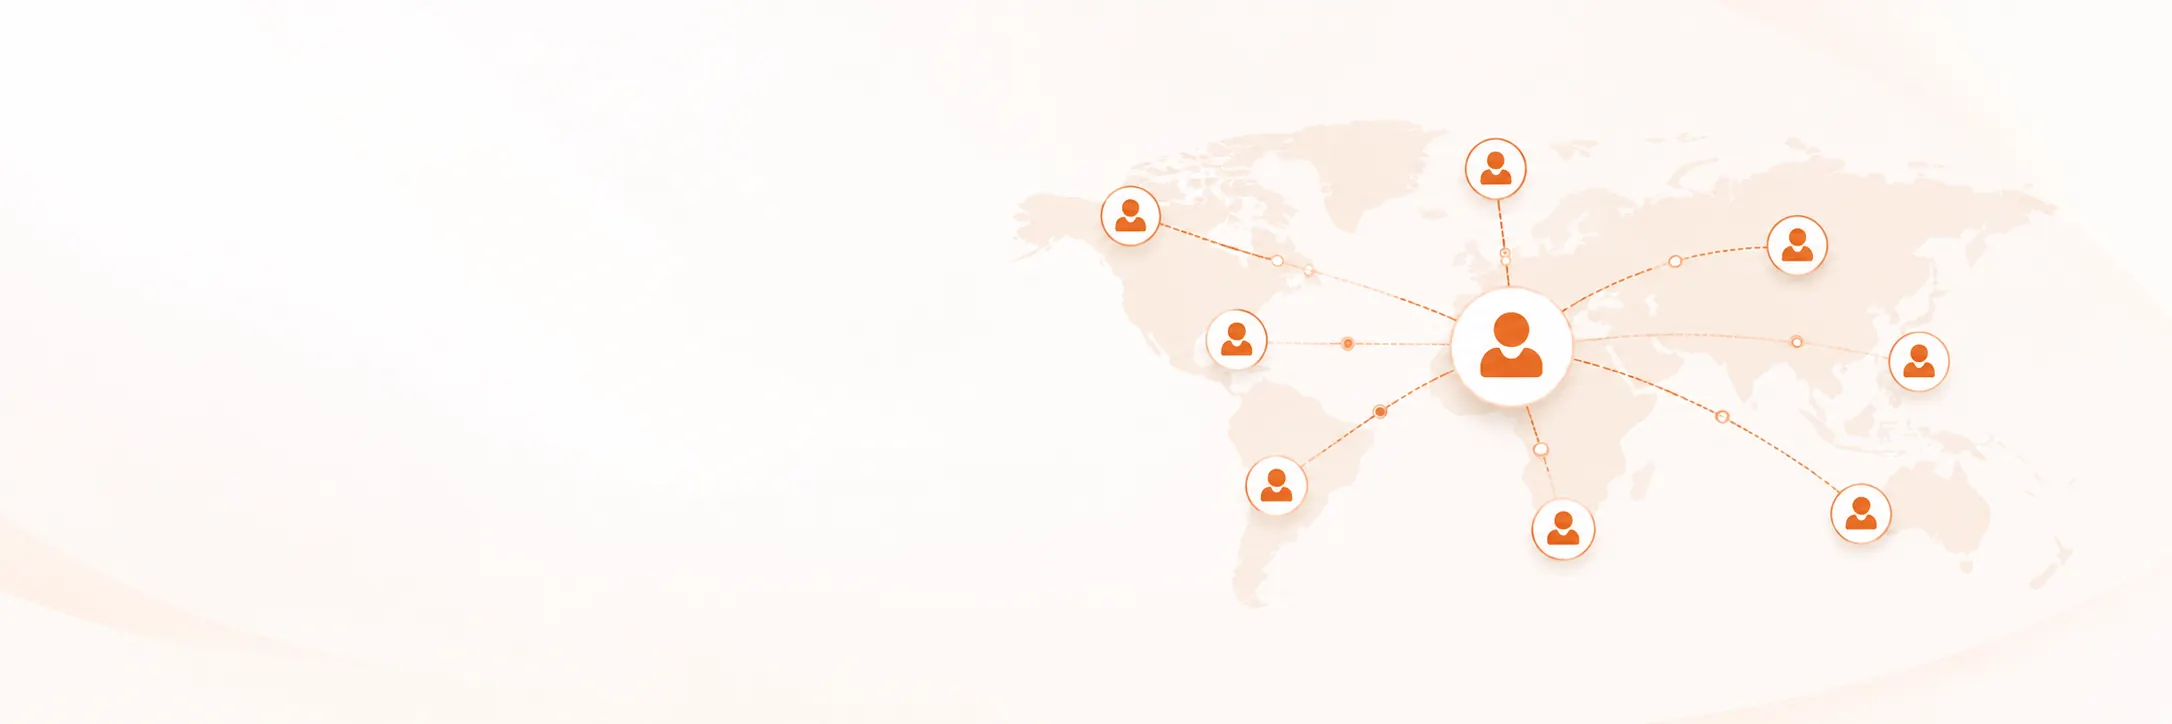
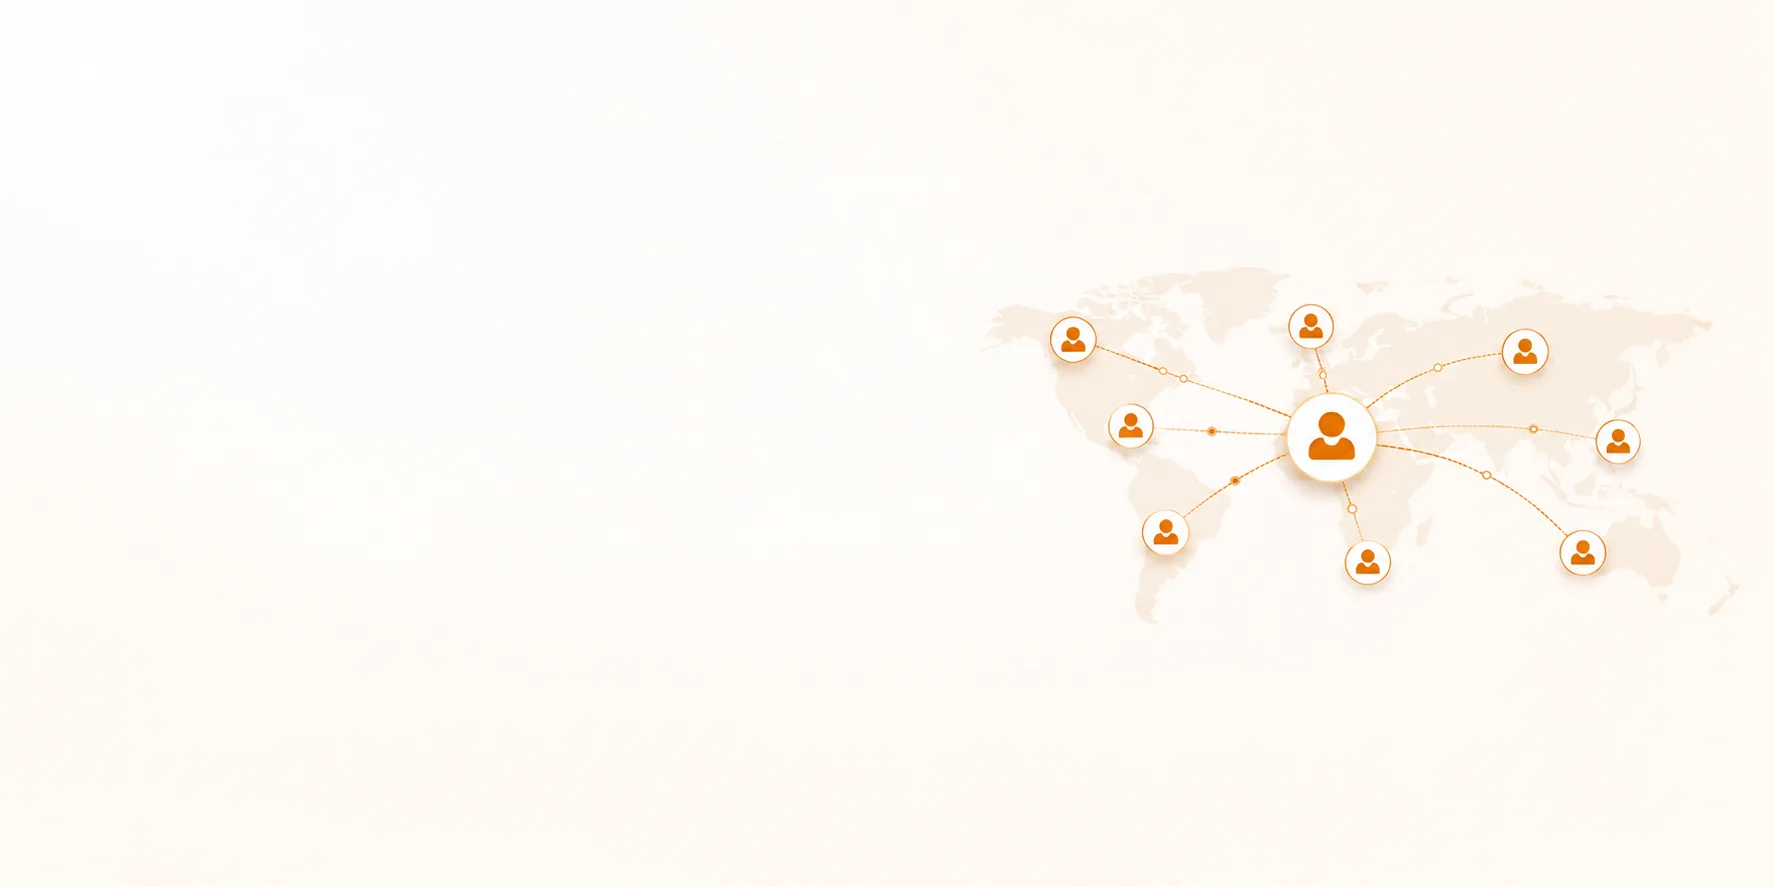
products page section 4 completed

diff --git a/src/pages/Products.jsx b/src/pages/Products.jsx
@@ -1,6 +1,7 @@
 import gproHero from "../assets/images/PRODUCTS_Hero.webp";
 import voicebillBg from "../assets/images/PRODUCTS_03.webp";
 import demanderBg from "../assets/images/PRODUCTS_02.webp";
+import comingSoonBg from "../assets/images/PRODUCTS_04.webp";
 import demanderHero from "../assets/images/demander-hero.png";
 import voicebillHero from "../assets/images/voicebill-hero.jpeg";
 import demanderLogo from "../assets/images/demander-logo.png";
@@ -68,6 +69,14 @@ export default function Products() {
             <p className="demander-support-line">Receive Orders Without the Noise</p>
             <div className="gpro-hero-buttons demander-hero-buttons">
               <a
+                href="https://gprosoftware.com/book-a-demo"
+                target="_blank"
+                rel="noopener noreferrer"
+                className="gpro-hero-btn gpro-hero-btn--primary btn-text"
+              >
+                Book a Demo
+              </a>
+              <a
                 href="https://demander.app/aptadmin/src/app/login.php"
                 target="_blank"
                 rel="noopener noreferrer"
@@ -88,7 +97,7 @@ export default function Products() {
             <h2 className="section-title">Simply Speak, Simply Bill</h2>
           </div>
           <h3 className="section-subtitle voicebill-hero-subtitle">
-            An innovative solution for faster retail billing
+            An innovative solution <br /> for faster retail billing
           </h3>
           <div className="voicebill-hero-bottom">
             <p className="section-desc">
@@ -96,6 +105,14 @@ export default function Products() {
               simpler, and easier —<br />so you can serve more customers with less effort.
             </p>
             <div className="gpro-hero-buttons voicebill-hero-buttons">
+              <a
+                href="https://gprosoftware.com/book-a-demo"
+                target="_blank"
+                rel="noopener noreferrer"
+                className="gpro-hero-btn gpro-hero-btn--primary btn-text"
+              >
+                Book a Demo
+              </a>
               <a
                 href="https://copanel.voicebill.app/login"
                 target="_blank"
@@ -105,6 +122,19 @@ export default function Products() {
                 Explore Features
               </a>
             </div>
+          </div>
+        </div>
+      </section>
+
+      <section className="image-background-section-comingsoon demander-hero-section">
+        <img src={comingSoonBg} alt="Upcoming Daxin products" className="image-background" />
+        <div className="image-overlay">
+          <div className="demander-hero-content comingsoon-hero-content">
+            <h2 className="section-title">Something new is taking shape</h2>
+            <p className="section-desc">
+              We’re working on new ideas and solutions designed to help businesses work smarter.
+            </p>
+            <p className="section-desc">Stay tuned for what’s coming next.</p>
           </div>
         </div>
       </section>

diff --git a/src/styles/Products.css b/src/styles/Products.css
@@ -21,9 +21,19 @@
   position: relative;
   width: 100%;
   aspect-ratio: 1920 / 790;
-  min-height: 720px;
+  min-height: 620px;
   overflow: hidden;
 }
+
+
+.image-background-section-comingsoon  {
+  position: relative;
+  width: 100%;
+  aspect-ratio: 1920 / 590;
+  min-height: 620px;
+  overflow: hidden;
+}
+
 
 .gpro-hero-content {
   position: absolute;
@@ -78,20 +88,23 @@
 }
 
 .gpro-hero-btn--primary {
-  background: #017c8b;
+  background: var(--btn-color, #1e4e8c);
   color: #fff;
-  border: 2px solid #017c8b;
+  border: 2px solid var(--btn-color, #1e4e8c);
 }
 
 .gpro-hero-btn--outline {
   background: transparent;
-  color: #017c8b;
-  border: 2px solid #017c8b;
+  color: var(--btn-color, #1e4e8c);
+  border: 2px solid var(--btn-color, #1e4e8c);
 }
+
+.demander-hero-buttons { --btn-color: #b85c0a; }
+.voicebill-hero-buttons { --btn-color: #2c4fd0; }
 
 .gpro-hero-btn:hover {
   transform: translateY(-2px);
-  box-shadow: 0 3px 10px rgba(1, 124, 139, 0.4);
+  box-shadow: 0 3px 10px rgba(0, 0, 0, 0.25);
 }
 
 .gpro-hero-trust {
@@ -191,13 +204,23 @@
   font-size: 34px;
   font-weight: 500;
   letter-spacing: 0;
-  color: #3a4a5c;
+  color: #2563EB; 
   margin-top: 60px ;
   margin-left: 130px;
 }
 
 .demander-hero-buttons {
   margin-top: 52px;
+}
+
+.comingsoon-hero-content .section-title {
+  white-space: nowrap;
+}
+
+@media (max-width: 960px) {
+  .comingsoon-hero-content .section-title {
+    white-space: normal;
+  }
 }
 
 @media (max-width: 960px) {
@@ -233,8 +256,8 @@
 
 .voicebill-hero-subtitle {
   position: absolute;
-  top: 54%;
-  left: 57%;
+  top: 50%;
+  left: 67%;
   width: auto;
   white-space: nowrap;
   margin: 0;
